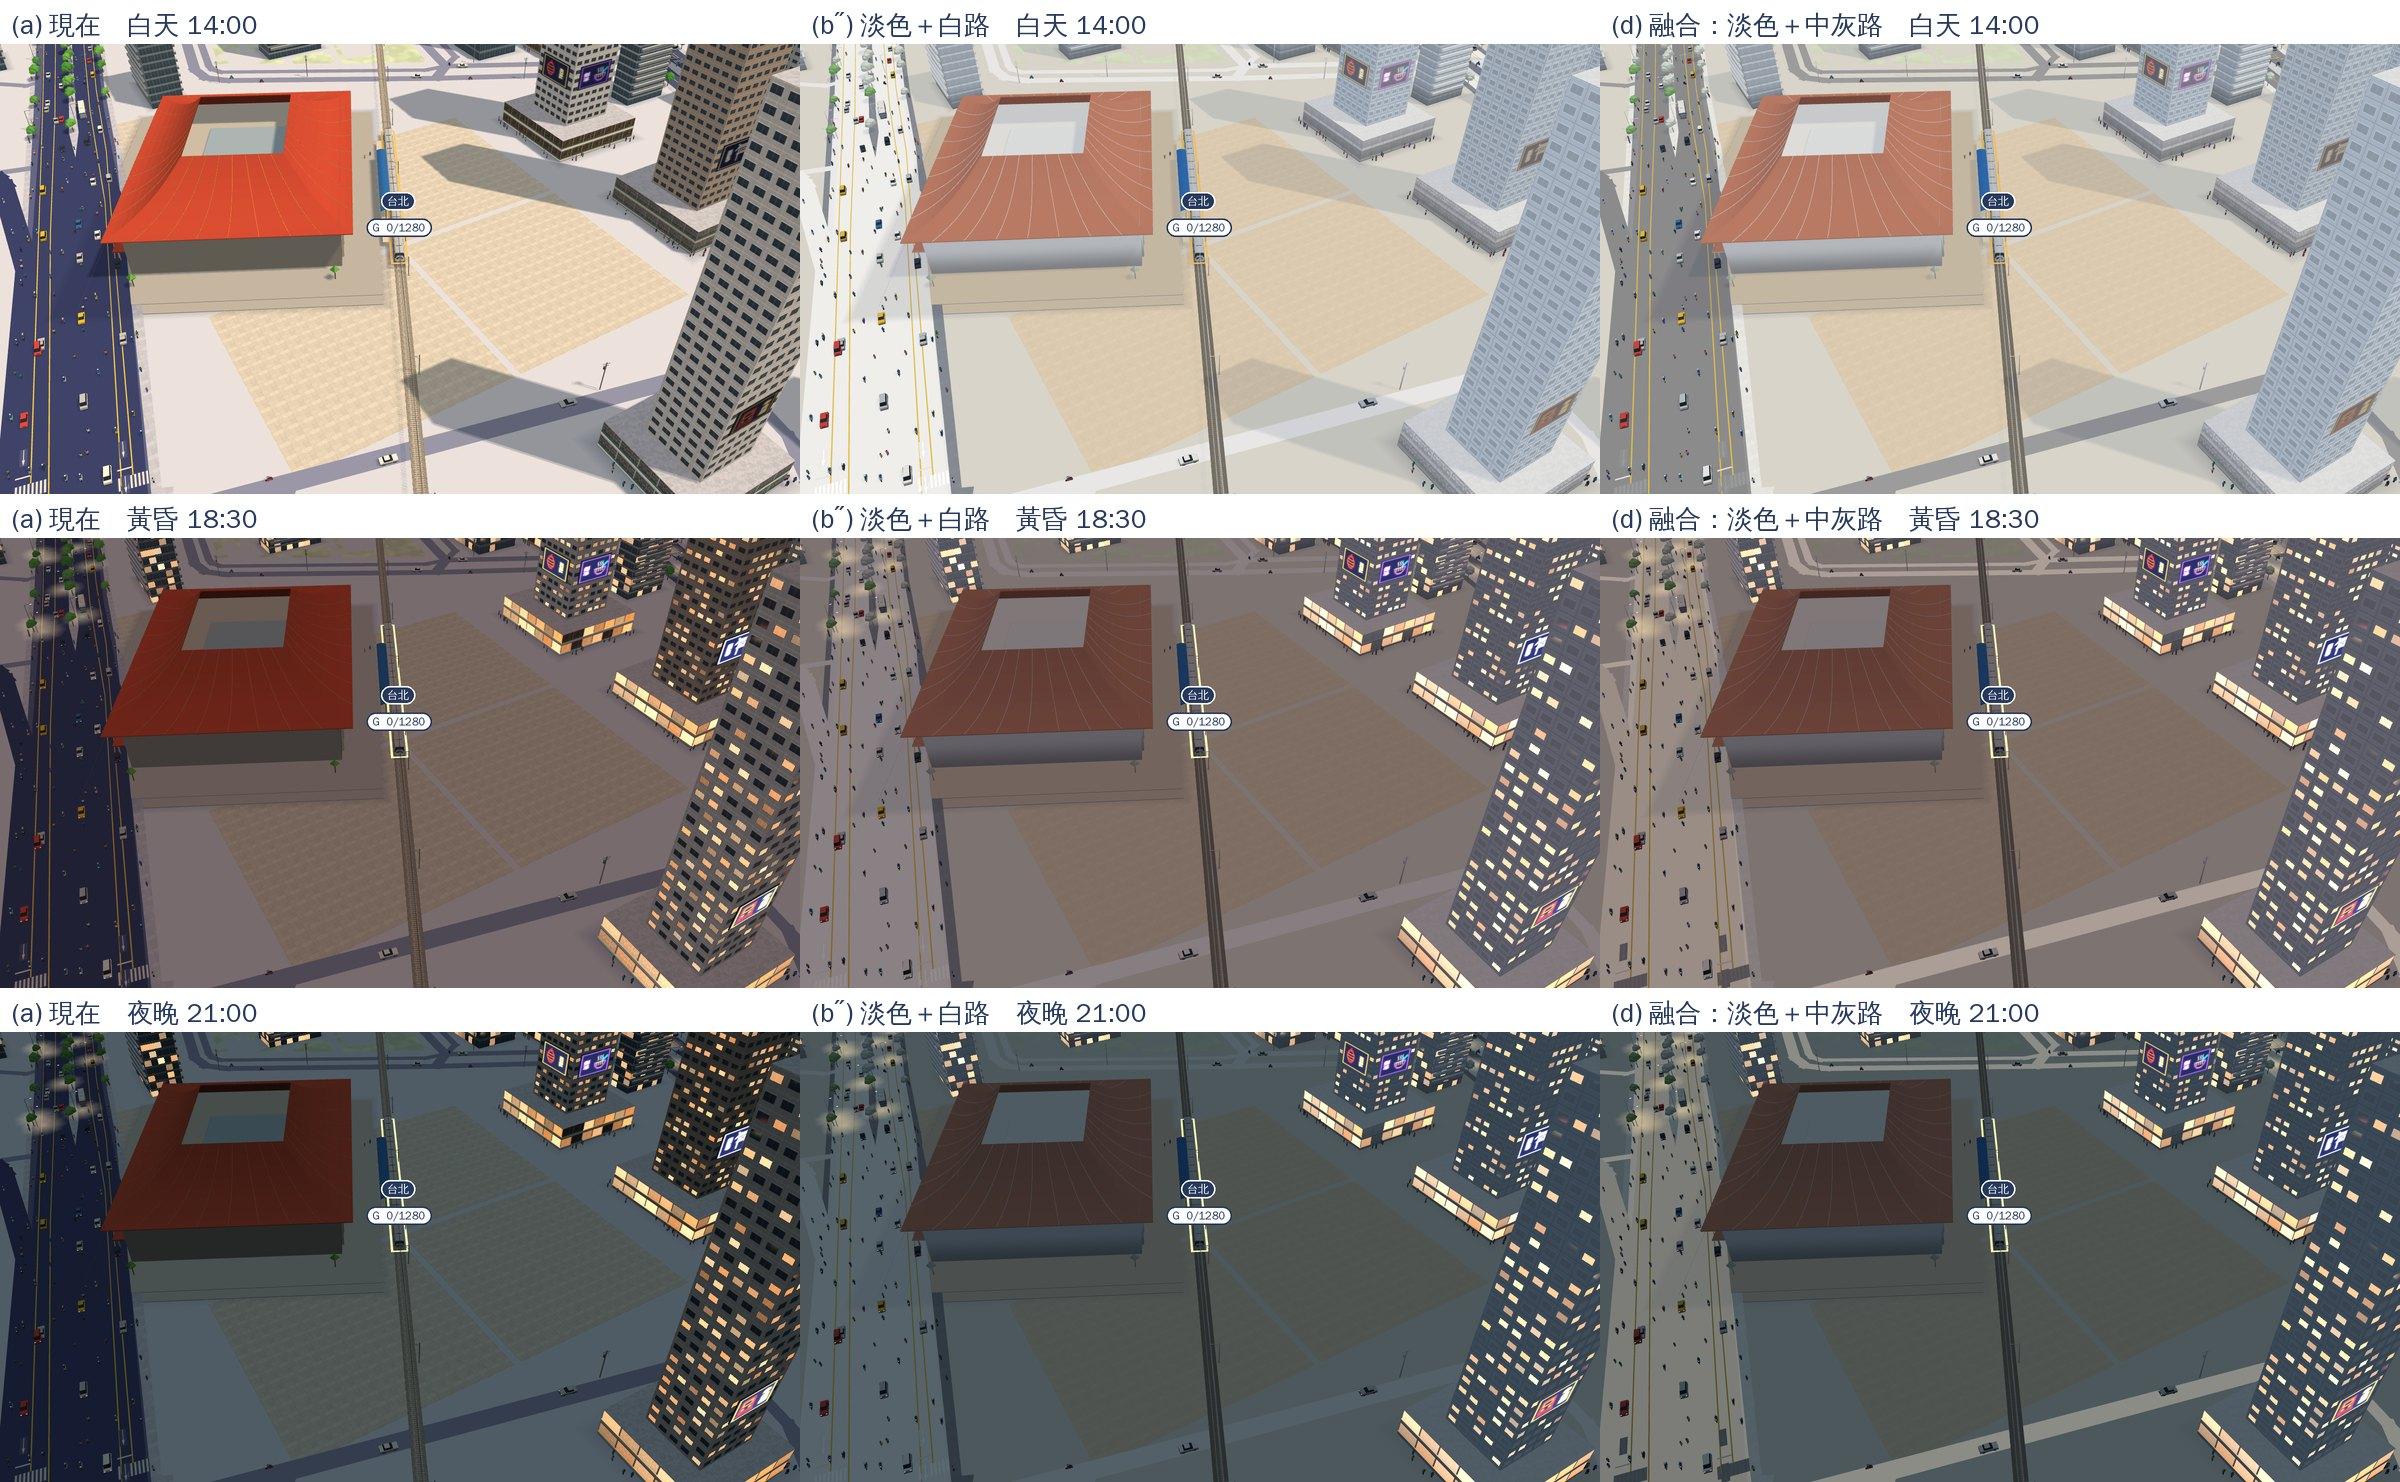
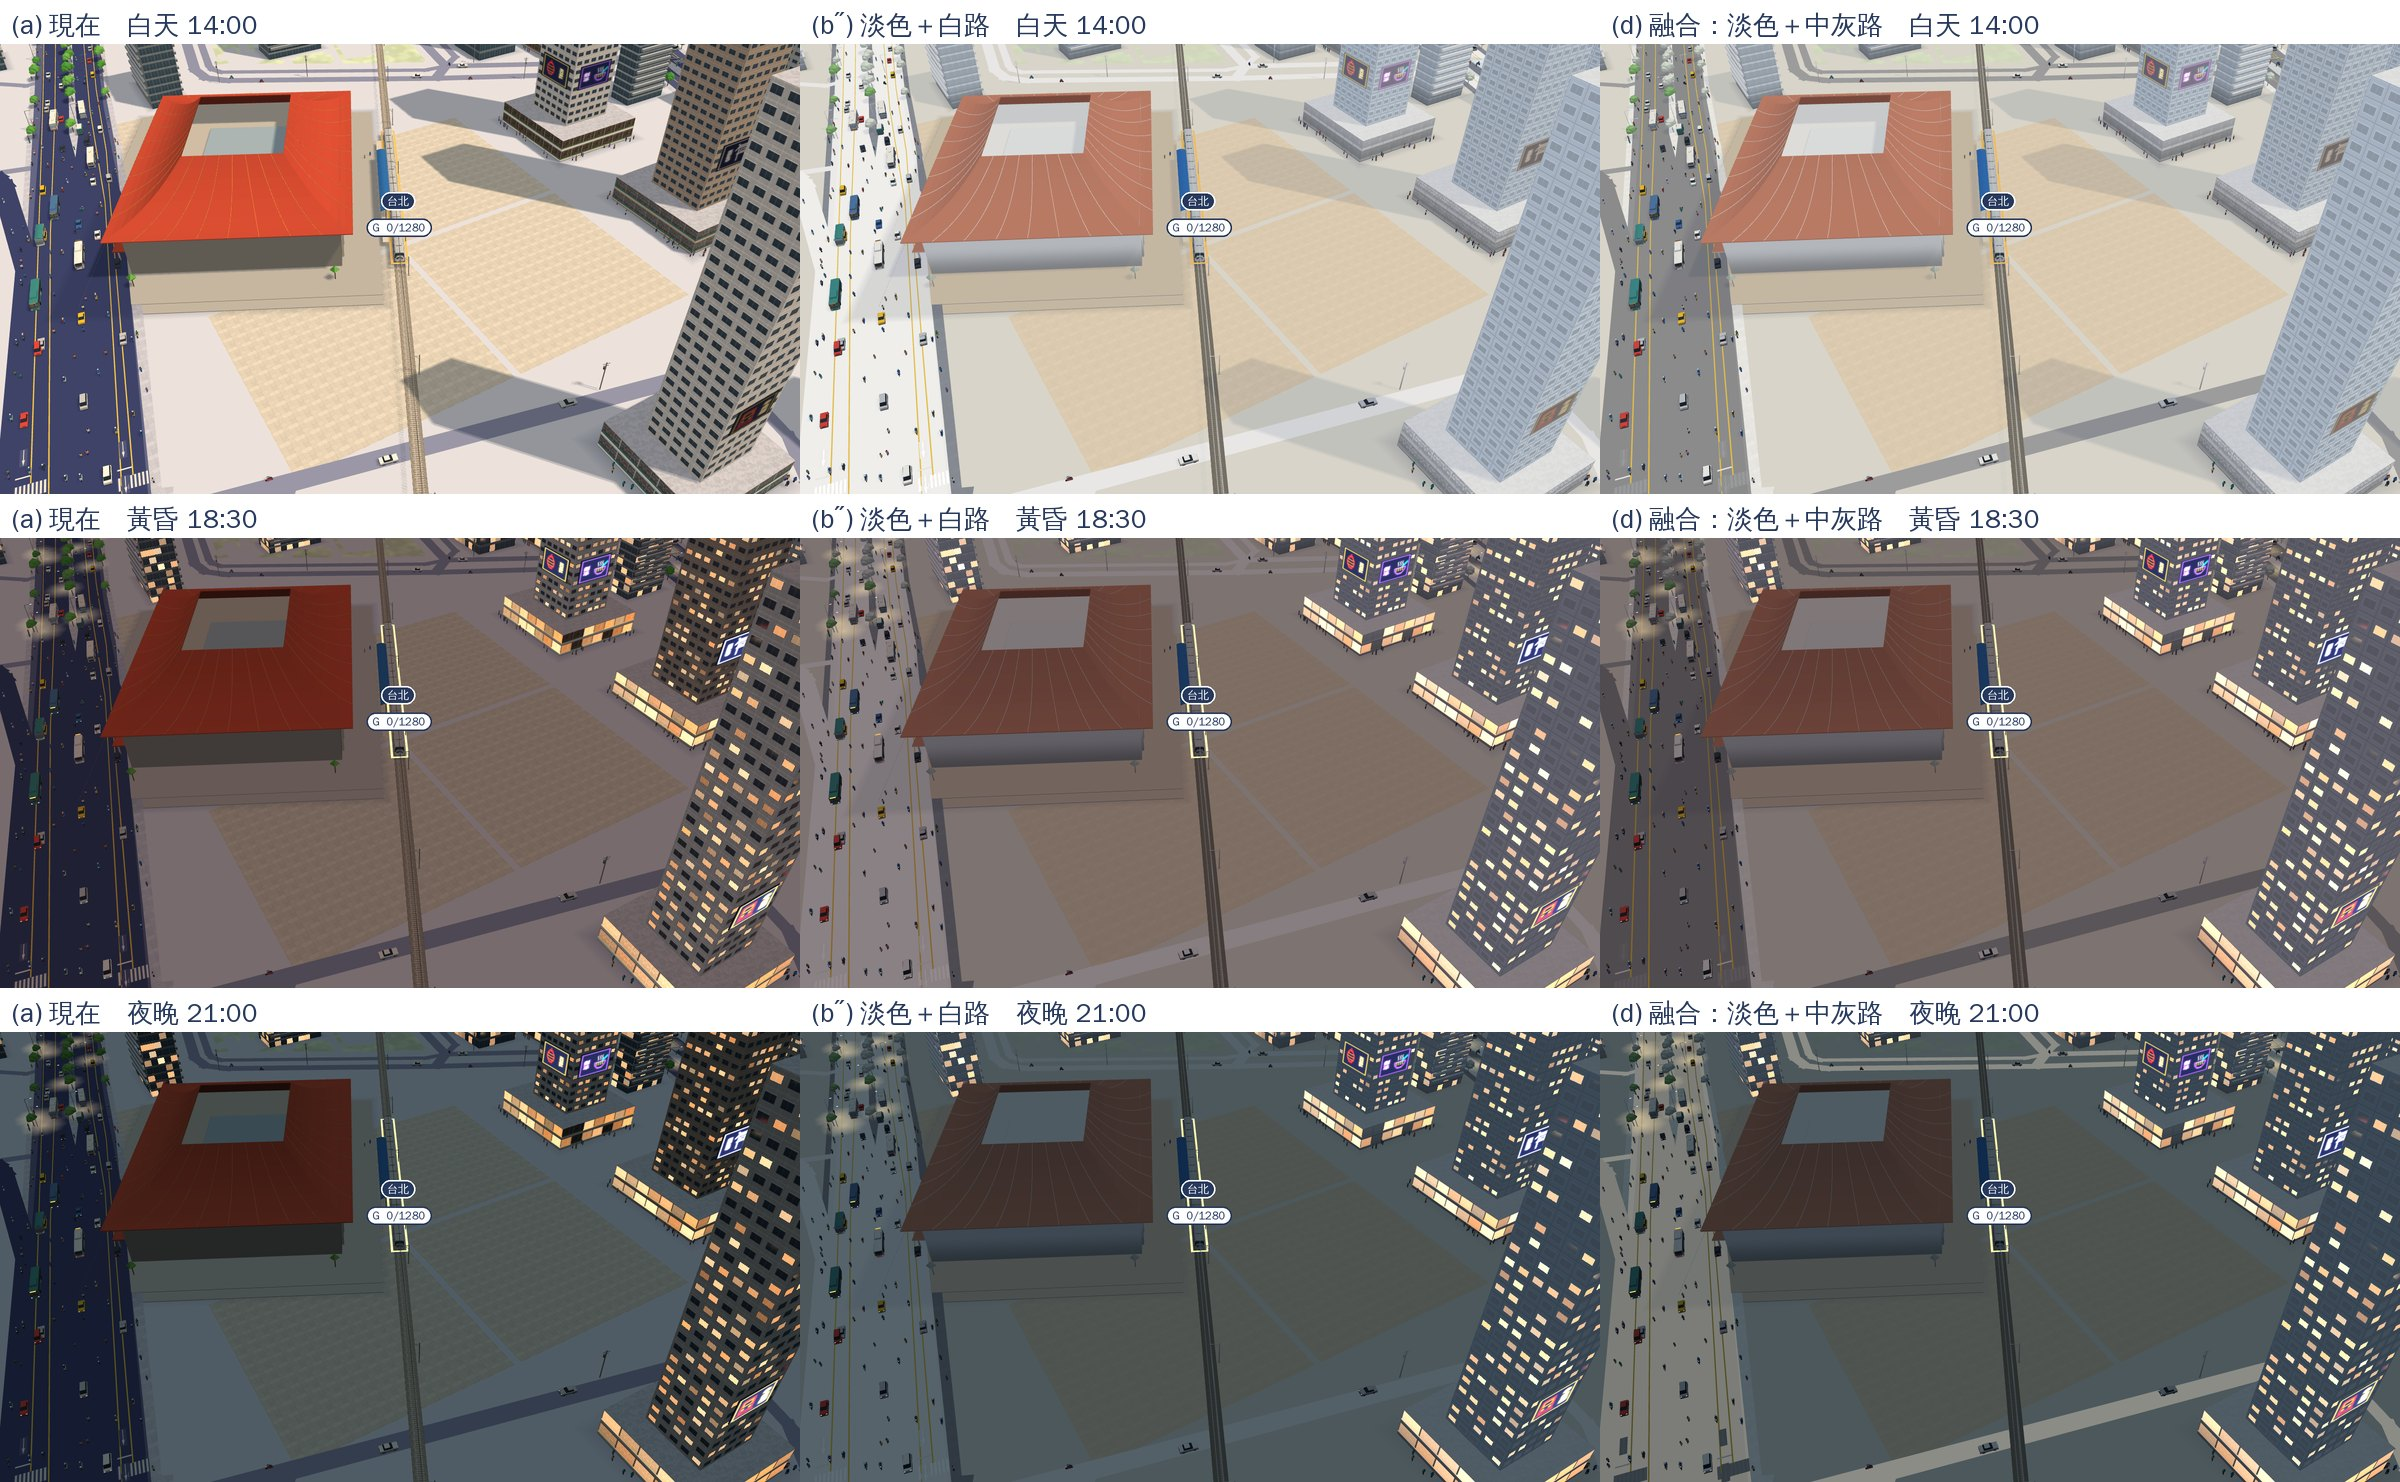
Map3D look preview (d): buses on the road and their contrasts; lamps only after dark
Seven of the street's buses in play.jpg's road, white and coloured,
measured against the road in all three looks; the road lamp waits for
a dark sky. L* 62 still picked.

Claude-Session: https://claude.ai/code/session_015wf4dPgATxoWNLz6ef2PW7

diff --git a/docs/art/map3d-mapbox-look-2026-10-23/README.md b/docs/art/map3d-mapbox-look-2026-10-23/README.md
@@ -73,24 +73,47 @@
 
 ## (d) 融合版（2026-10-23）
 
-作者看了 (a)、(b'') 的五方評分（(a) 7.05、(b'') 7.30）後問能不能各取優點；規劃定義了 (d)，作者說「好先做做看 等等一起評分」。五方評分等作者看圖後由遊戲規劃一起評，這裡只寫做法與數字。
+作者看了 (a)、(b'') 的五方評分（(a) 7.05、(b'') 7.30）後問能不能各取優點；規劃定義了 (d)，作者說「好先做做看 等等一起評分」。之後作者又問，之後有玩家的公車，評比要不要改，所以路上加了公車，也量了公車。五方評分等作者看圖後，由遊戲規劃一起評；這裡只寫做法與數字。
 
-(d) 從 (b'') 拿淡色建築與地面、深一階的道床、台灣細節（台北車站紅屋頂、101 天藍玻璃 #C0DDEE、招牌、決策 242 的淡牆面細節）；從 (a) 拿「路比地面深」：路面改成中灰，路緣改白，黃色中線不變。夜晚路燈照亮路面，讓路比地面亮一階。
+(d) 從 (b'') 拿：
+- 淡色建築與地面；
+- 深一階的道床；
+- 台灣細節：台北車站紅屋頂、101 天藍玻璃 #C0DDEE、招牌、決策 242 的淡牆面細節。
 
-`play.jpg`：左 (a)、中 (b'')、右 (d)；上到下白天 14:00、黃昏 18:30、夜晚 21:00。鏡頭和上面一樣（220 m），畫面有軌道、台北站、G 線列車與黃色選取框、站名與列車標籤。
+從 (a) 拿「路比地面深」：路面改中灰，路緣改白，黃色中線不變。天黑以後路燈照亮路面，路就比地面亮。
+
+`play.jpg`：
+- 欄：左 (a)、中 (b'')、右 (d)。
+- 列：上到下是白天 14:00、黃昏 18:30、夜晚 21:00。
+- 鏡頭和上面一樣（220 m），畫面有軌道、台北站、G 線列車與黃色選取框、站名與列車標籤。
+- 左邊大路上放了 7 台遊戲街景車流裡現有的公車：
+  - 白色車身 4 台：12 m 市區公車（#F2F2F0）、低地板、遊覽車、中型巴士；
+  - 有色車身 3 台：市區公車藍 #4E78A8、青 #3E8C8C、綠色接駁車。
 
 ### 中灰取哪一階
 
 試了三階：快速道路的 L* 55、62、70，較小的路每階再亮一點。三階的對照表 `play/play-d-steps.jpg` 與原圖在參考庫。
 
-| 一對（220 m 鏡頭） | 時間 | L* 55 | **L* 62** | L* 70 |
-| --- | --- | --- | --- | --- |
-| 列車對路面 | 白天／黃昏／夜晚 | 24／9／14 | **17／16／20** | 10／23／26 |
-| 路面對地面 | 白天／黃昏／夜晚 | 34／3.5／10 | **27／10／16** | 20／18／22 |
+挑的時候看四項，220 m 鏡頭，白天／黃昏／夜晚：
 
-- 選 **L* 62**，因為它三個時段兩項都在 10 以上。
-- L* 55 白天最清楚，但黃昏路燈把路提到和地面、列車差不多亮，兩項掉到 3.5 和 9。
-- L* 70 白天列車對路面只剩 10，和 (b'') 的白路差不多。
+| ΔL* | L* 55 | **L* 62** | L* 70 |
+| --- | --- | --- | --- |
+| 列車對路面 | 24／15／14 | **17／11／20** | 10／6.5／26 |
+| 路面對地面 | 34／21／10 | **27／17／16** | 20／12／22 |
+| 白色公車車頂對路面 | 38／24／7.6 | **31／20／14** | 24／15／20 |
+| 有色公車對路面 | 6.0／3.1／28 | **12／7.2／34** | 20／12／40 |
+| 四項的最小值 | 3.1 | **7.2** | 6.5（260 m 鏡頭黃昏是 2.8） |
+
+- 選 **L* 62**：它四項裡最差的一項還有 7.2，三階中最高。
+- L* 55 太深：有色公車白天、黃昏和路幾乎一樣深。
+- L* 70 太淺：列車黃昏只差 6.5，白天也只剩 10。
+- 白色公車用車頂（公車像素亮度的第 80 百分位）。整台的中位數會混到深色的車窗與側面，落在中灰附近，所以 (d) 的整台中位數白天和黃昏都只差 0.6。實際上從上面看，是白車頂對灰路，看得出來（見 play.jpg）。兩種數字都列在下面的表。
+
+夜晚的路燈：
+- 做法：路面單獨標一層，天黑時著色器加一道暖光（#FFE6BD 乘 0.5），再乘既有的夜燈強度 `shade.y`。
+- 只在天空夠暗時開：天空亮度 0.42 以上不開，0.30 以下全開。
+- 黃昏 18:30 的天空亮度約 0.45，還不開。路燈要是黃昏就開，灰路會被提到和白色車頂、列車一樣亮：L* 62 的白色車頂對路面只剩 7.5，列車對路面 16。
+- (b'') 夜晚路面對地面只差 4.5，(d) 是 16。
 
 ### 顏色
 
@@ -107,34 +130,45 @@
 | 道床 | #A39B8E | #7E786D | #7E786D |
 | 公園、水、樹、城市建物 | — | `compose_play.py` 的 `REMAP`／`pale()` | 和 (b'') 相同 |
 | 台北車站屋頂、101 玻璃 | — | #C4826C、#C0DDEE | 和 (b'') 相同 |
+| 公車、列車、玩家的建物 | 不改 | 不改 | 不改 |
 
-灰色略偏冷（藍多 4），所以在暖色地面上看起來像柏油。
+灰色略偏冷（藍多 4），在暖色地面上看起來像柏油。
 
-夜晚的路燈：路面單獨標一層，著色器在晚上加一道暖光（#FFE6BD 乘 0.5，再乘既有的夜燈強度 `shade.y`），白天是 0。(b'') 夜晚路面對地面只差 4.5，(d) 是 16。
+### 對比
 
-### 對比（ΔL*，0–100；兩個鏡頭接近時只寫一個）
+ΔL*，0–100；兩個鏡頭接近時只寫一個，公車只在 220 m 鏡頭裡。
 
 | 一對 | 時間 | (a) | (b'') | (d) |
 | --- | --- | --- | --- | --- |
 | 軌道對地面 | 白天／黃昏／夜晚 | 27／14／13 | 37／23／18 | 37／23／18 |
-| 列車對路面 | 白天／黃昏／夜晚 | 46–48／18–29／14–24 | 17–19／11／9 | 16–17／16／20 |
-| 路面對地面 | 白天／黃昏／夜晚 | 61／22–33／18–28 | 7–9／5.5／4.5 | 27／10／16 |
-| 白牆對路面 | 白天／黃昏／夜晚 | 5–18／10–24／2.5–13 | 24–28／15／11 | 6–12／19／22 |
+| 列車對路面 | 白天／黃昏／夜晚 | 46–48／18–29／14–24 | 17–19／11／9 | 16–17／8–11／20 |
+| 路面對地面 | 白天／黃昏／夜晚 | 61／22–33／18–28 | 7–9／5.5／4.5 | 27／13–17／16 |
+| **白色公車車頂對路面** | 白天／黃昏／夜晚 | 67／37／31 | **4.9／2.9／2.5** | 31／20／14 |
+| 白色公車（整台中位數）對路面 | 白天／黃昏／夜晚 | 32／19／14 | 33／20／16 | 0.6／0.6／26 |
+| **有色公車對路面** | 白天／黃昏／夜晚 | 18／11／9 | 48／30／23 | 12／7.2／34 |
+| 白牆對路面 | 白天／黃昏／夜晚 | 5–18／10–24／2.5–13 | 24–28／15／11 | 6–12／4–8／22 |
 | 列車對道床 | 白天／黃昏／夜晚 | 12–13／10／8–9 | 26–28／17／13 | 26–28／17／13 |
 
 讀法：
 
-- (d) 的軌道、列車對道床和 (b'') 一樣，因為地面與道床同色。
-- 白天路面對地面 27，(b'') 是 7–9，路一眼看得出來。
-- 列車對路面白天和 (b'') 差不多。黃昏與夜晚較高，因為列車暗、路被燈照亮。
-- 白天白牆對路面 6–12，比 (b'') 低，和 (a) 差不多：灰路與淡牆亮度接近，樓靠牆腳暗邊與影子分開。
+- **公車**：
+  - (b'') 的白色公車車頂在白路上三個時段都只差 2.5–4.9，從上面看幾乎消失。之後玩家的白色公車在 (b'') 會看不清楚。
+  - (d) 的白色車頂對灰路有 14–31。
+  - 有色公車在 (b'') 最清楚。在 (d) 是 7–34，黃昏最弱。
+- **(d) 和 (b'') 一樣的**：軌道、列車對道床，因為地面與道床同色。
+- **(d) 比 (b'') 好的**：
+  - 路面對地面：白天 27，(b'') 是 7–9；
+  - 夜晚的列車與白牆。
+- **(d) 比 (b'') 差的**：
+  - 黃昏的列車對路面（8–11）、白牆對路面（4–8）、有色公車（7.2）：灰路沒開燈，和暗下來的車、牆接近。
+  - 白天白牆對路面 6–12，和 (a) 差不多，樓靠牆腳的暗邊與影子分開。
 
-量法和上面一樣（`masks.py`、`contrast.py`），數字在參考庫 `play/contrast-d.json`。
+量法和上面一樣（`masks.py`、`contrast.py`），公車的遮罩用 dump 記下每台公車的頂點範圍。數字在參考庫 `play/contrast-d.json`。
 
 **效能**：
-- 顏色只換頂點色，記憶體與頂點數和 (a) 相同。
-- 夜晚路燈：路面的片段多一次比較和一次乘加。沒有新的貼圖、緩衝或 pass。
-- 不需要新的頂點欄位：路面本來就有 layer（-1，平面無貼圖），換成一個新的 layer 值即可。
+- 顏色只換頂點色，記憶體與頂點數和 (a) 相同；
+- 夜晚的路燈只讓路面的像素多一次比較、一次天空亮度的 smoothstep 與一次乘加，沒有新的貼圖、緩衝或 pass；
+- 路面本來就有 layer（-1，平面無貼圖），換成新的 layer 值即可，不用加頂點欄位。
 
 ## 怎麼做的
 

diff --git a/docs/HANDOFF.md b/docs/HANDOFF.md
@@ -879,7 +879,7 @@
 5. 實機看夜晚的路：(b'') 的路面與地面夜晚只差 ΔL* 4.5。
 6. 跑 `Map3DSceneMemoryTests.testThe3DMapRoundBanqiaoFitsAPhone`，記憶體不能增加。淡色只換頂點色；留招牌就不省貼圖（約 30 MB 的數字在 README）。
 
-(d) 融合版（session_015wf4dPgATxoWNLz6ef2PW7，2026-10-23）：(b'') 的淡色加中灰路面（L* 62，#949598–#A6A7AA）、白路緣，夜晚路面加路燈光。顏色與對比在 README「(d) 融合版」。作者看圖後，由遊戲規劃把 (a)、(b'')、(d) 一起評分。選了 (d) 的話，上面第 2、4 點的路面改用 (d) 的顏色；`map3dShade` 給路面一個新 layer，夜晚加路燈光（預覽頁 `ROAD_LAMP`）。
+(d) 融合版（session_015wf4dPgATxoWNLz6ef2PW7，2026-10-23）：(b'') 的淡色加中灰路面（L* 62，#949598–#A6A7AA）、白路緣，天黑後路面加路燈光（黃昏不開）。顏色與對比（含白色、有色公車）在 README「(d) 融合版」。作者看圖後，由遊戲規劃把 (a)、(b'')、(d) 一起評分。選了 (d) 的話，上面第 2、4 點的路面改用 (d) 的顏色；`map3dShade` 給路面一個新 layer，天空夠暗時加路燈光（預覽頁 `ROAD_LAMP` 與天空亮度 0.30–0.42 的 smoothstep）。
 
 預覽工具：參考庫 `scripts/Map3DPreviewDump.patch`（`MAP3D_PLAY` 放列車與標籤位置），用法在那裡的 README。
 
